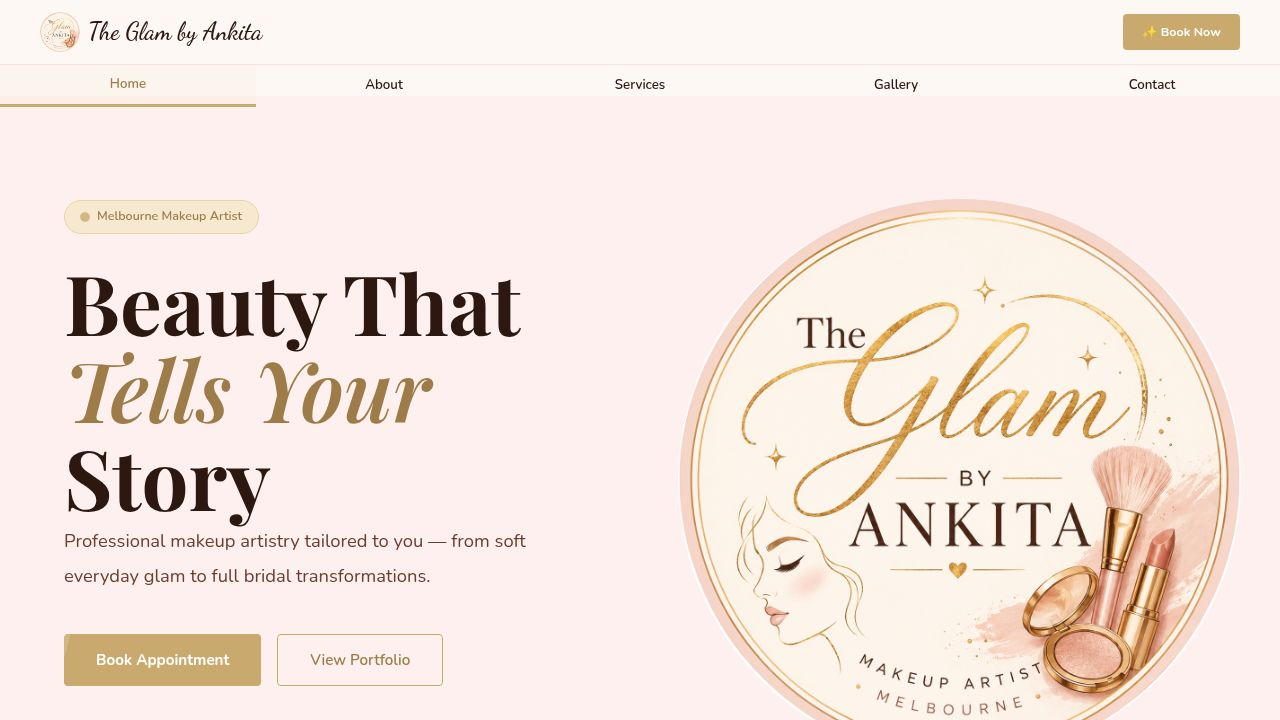
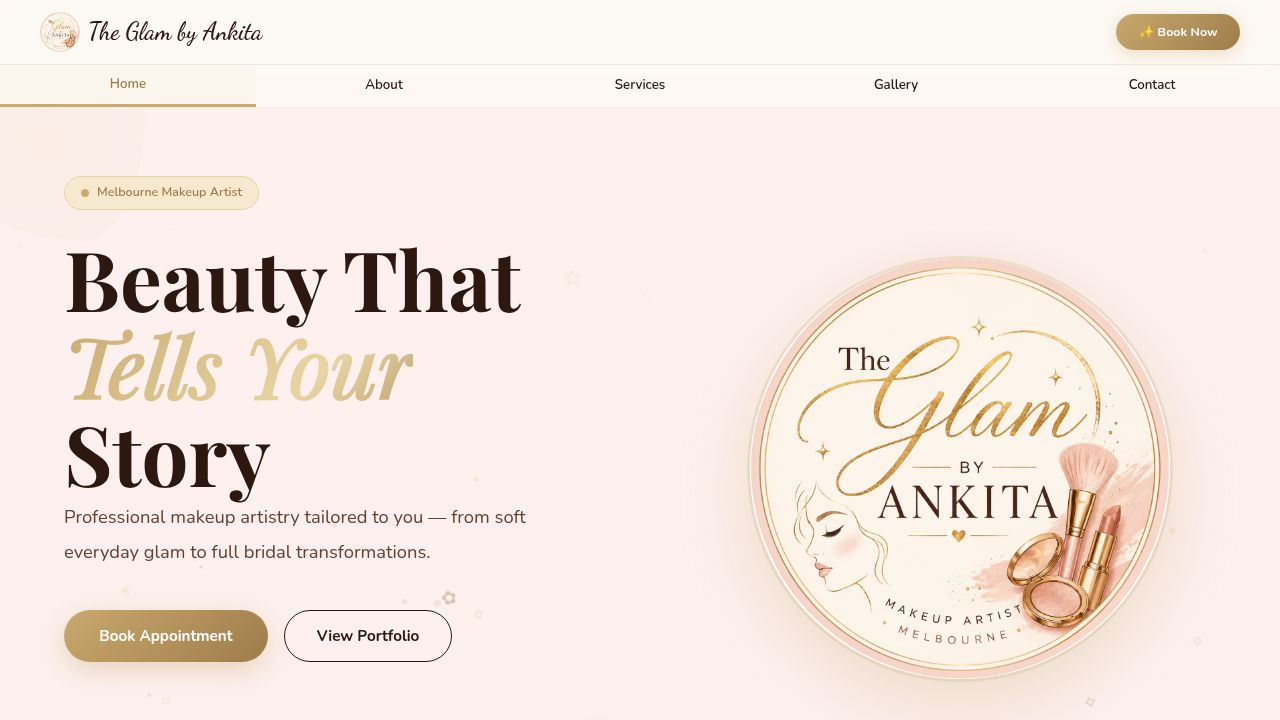
Add functionality to apply discount codes to bookings
Integrates coupon validation and application into the API server, front-end booking page, and payment processing.

Replit-Commit-Author: Agent
Replit-Commit-Session-Id: 282024a3-923a-431c-b2bb-da98415b7cdc
Replit-Commit-Checkpoint-Type: full_checkpoint
Replit-Commit-Event-Id: 32ee8916-b80d-4cc3-8edd-429b4a8d8781
Replit-Commit-Screenshot-Url: https://storage.googleapis.com/screenshot-production-us-central1/66a73c00-f45a-4c36-a1ad-ee1a0a4c6257/282024a3-923a-431c-b2bb-da98415b7cdc/SQH9PIQ

diff --git a/artifacts/glam-by-ankita/index.html b/artifacts/glam-by-ankita/index.html
@@ -1632,6 +1632,28 @@
         <p style="margin:0;font-size:0.77rem;color:#9e7c4a;">Secures your appointment · Non-refundable</p>
       </div>
 
+      <!-- Promo code input -->
+      <div id="sp-promo-wrap" class="sp-fade-up" style="margin-bottom:16px;text-align:center;">
+        <button type="button" onclick="_togglePromo()" style="background:none;border:none;cursor:pointer;font-size:0.82rem;color:#9e7c4a;font-family:'Nunito',sans-serif;font-weight:600;padding:4px 8px;display:inline-flex;align-items:center;gap:5px;">
+          <span id="sp-promo-chevron" style="font-size:0.65rem;display:inline-block;transition:transform 0.25s;">▶</span>
+          Have a promo code?
+        </button>
+        <div id="sp-promo-input-wrap" style="display:none;margin-top:6px;text-align:left;">
+          <div style="display:flex;gap:8px;">
+            <input id="sp-promo-input" type="text" placeholder="Enter code"
+              style="flex:1;padding:10px 14px;border:1.5px solid #e8c4bc;border-radius:7px;font-size:0.9rem;font-family:'Nunito',sans-serif;color:#2c1810;background:#fff;outline:none;text-transform:uppercase;letter-spacing:0.05em;box-sizing:border-box;"
+              oninput="this.value=this.value.toUpperCase()"
+              onkeydown="if(event.key==='Enter'){event.preventDefault();applyPromoCode();}"
+            />
+            <button type="button" onclick="applyPromoCode()" id="sp-promo-btn"
+              style="padding:10px 18px;background:linear-gradient(135deg,#c9a96e,#9e7c4a);color:#fff;border:none;border-radius:7px;font-size:0.85rem;font-weight:700;cursor:pointer;font-family:'Nunito',sans-serif;white-space:nowrap;">
+              Apply
+            </button>
+          </div>
+          <div id="sp-promo-result" style="margin-top:8px;font-size:0.83rem;min-height:18px;"></div>
+        </div>
+      </div>
+
       <!-- ① Payment method choice screen -->
       <div id="pay-method-screen" class="sp-screen-enter">
         <p style="text-align:center;font-family:'Playfair Display',serif;font-size:0.97rem;color:#6b3d2e;margin-bottom:14px;">How would you like to pay?</p>
@@ -2340,7 +2362,10 @@
 
       renderBookingDetails(data);
       const depositEl = document.getElementById('deposit-display');
-      if (depositEl) depositEl.textContent = 'AUD $' + parseFloat(data.total_aud).toFixed(2);
+      if (depositEl) {
+        depositEl.textContent = 'AUD $' + parseFloat(data.total_aud).toFixed(2);
+        depositEl.dataset.originalAmount = parseFloat(data.total_aud).toFixed(2);
+      }
       // Show discount breakdown if coupon was applied
       const existingBreakdown = document.getElementById('deposit-discount-breakdown');
       if (existingBreakdown) existingBreakdown.remove();
@@ -2412,6 +2437,68 @@
 
   let _stripeInitStarted = false;
 
+  function _togglePromo() {
+    const wrap = document.getElementById('sp-promo-input-wrap');
+    const chevron = document.getElementById('sp-promo-chevron');
+    if (!wrap) return;
+    const open = wrap.style.display !== 'none';
+    wrap.style.display = open ? 'none' : 'block';
+    if (chevron) chevron.style.transform = open ? '' : 'rotate(90deg)';
+  }
+
+  async function applyPromoCode() {
+    const input = document.getElementById('sp-promo-input');
+    const result = document.getElementById('sp-promo-result');
+    const btn = document.getElementById('sp-promo-btn');
+    const code = (input ? input.value : '').trim().toUpperCase();
+    if (!code) { if (result) result.innerHTML = '<span style="color:#c0392b;">Please enter a code.</span>'; return; }
+    if (btn) { btn.disabled = true; btn.textContent = 'Checking…'; }
+    if (result) result.innerHTML = '';
+    try {
+      const r = await fetch('/api/validate-coupon?code=' + encodeURIComponent(code));
+      const data = await r.json();
+      if (!data.valid) {
+        if (result) result.innerHTML = '<span style="color:#c0392b;">❌ ' + (data.error || 'Invalid code') + '</span>';
+        if (btn) { btn.disabled = false; btn.textContent = 'Apply'; }
+        return;
+      }
+      const depositEl = document.getElementById('deposit-display');
+      const originalAud = parseFloat(depositEl ? (depositEl.dataset.originalAmount || '0') : '0') || 0;
+      let discountAmount = data.discountType === 'percent'
+        ? originalAud * data.discountValue / 100
+        : Math.min(data.discountValue, originalAud);
+      const newAmount = Math.max(0, originalAud - discountAmount);
+      _appliedCoupon = { code: data.code, discountType: data.discountType, discountValue: data.discountValue, discountAmount, newAmount, originalAud };
+      if (depositEl) {
+        depositEl.innerHTML = '<span style="text-decoration:line-through;color:#aaa;font-size:1.5rem;">AUD $' + originalAud.toFixed(2) + '</span><br>'
+          + '<span style="color:#2c6e3f;font-size:2.2rem;">AUD $' + newAmount.toFixed(2) + '</span>';
+      }
+      const discLabel = data.discountType === 'percent' ? data.discountValue + '% off' : 'A$' + data.discountValue + ' off';
+      if (result) result.innerHTML = '<span style="color:#2c6e3f;">✅ ' + discLabel + ' applied!'
+        + (data.description ? ' · <em>' + data.description + '</em>' : '') + '</span>'
+        + ' <button type="button" onclick="removePromoCode()" style="background:none;border:none;color:#c0392b;font-size:0.8rem;cursor:pointer;text-decoration:underline;font-family:\'Nunito\',sans-serif;padding:0 4px;">Remove</button>';
+      if (btn) { btn.textContent = '✓ Applied'; btn.style.background = '#2c6e3f'; }
+      if (input) input.disabled = true;
+    } catch (e) {
+      if (result) result.innerHTML = '<span style="color:#c0392b;">Could not check code. Please try again.</span>';
+      if (btn) { btn.disabled = false; btn.textContent = 'Apply'; }
+    }
+  }
+
+  function removePromoCode() {
+    _appliedCoupon = null;
+    const depositEl = document.getElementById('deposit-display');
+    if (depositEl && depositEl.dataset.originalAmount) {
+      depositEl.textContent = 'AUD $' + parseFloat(depositEl.dataset.originalAmount).toFixed(2);
+    }
+    const input = document.getElementById('sp-promo-input');
+    const result = document.getElementById('sp-promo-result');
+    const btn = document.getElementById('sp-promo-btn');
+    if (input) { input.value = ''; input.disabled = false; }
+    if (result) result.innerHTML = '';
+    if (btn) { btn.disabled = false; btn.textContent = 'Apply'; btn.style.background = ''; }
+  }
+
   async function initStripe(pubKey, token) {
     try {
       const Stripe = window.Stripe;
@@ -2420,7 +2507,7 @@
       const res = await fetch('/api/create-payment-intent', {
         method: 'POST',
         headers: { 'Content-Type': 'application/json' },
-        body: JSON.stringify({ token, testMode: _testMode })
+        body: JSON.stringify({ token, testMode: _testMode, couponCode: _appliedCoupon ? _appliedCoupon.code : null })
       });
       const json = await res.json();
       if (json.error || !json.client_secret) {
@@ -2461,7 +2548,8 @@
         let body = { token: _bookingToken };
         try {
           const d = _decodeBookingToken(_bookingToken);
-          body = { client_name: d.client_name, client_email: d.client_email, total_aud: d.total_aud, confirmed_data: d.confirmed_data };
+          const actualAud = _appliedCoupon ? _appliedCoupon.newAmount : parseFloat(d.total_aud);
+          body = { client_name: d.client_name, client_email: d.client_email, total_aud: actualAud, confirmed_data: d.confirmed_data };
         } catch (_) {}
         await fetch('/api/select-cash', { method: 'POST', headers: { 'Content-Type': 'application/json' }, body: JSON.stringify(body) });
       } catch (e) { /* best effort */ }
@@ -2470,7 +2558,9 @@
     try {
       const d = _decodeBookingToken(_bookingToken);
       const note = document.getElementById('cash-deposit-note');
-      if (note && d.total_aud) note.textContent = 'Cash deposit of A$' + parseFloat(d.total_aud).toFixed(2) + ' to be paid at appointment.';
+      const cashAud = _appliedCoupon ? _appliedCoupon.newAmount : parseFloat(d.total_aud);
+      if (note && cashAud) note.textContent = 'Cash deposit of A$' + cashAud.toFixed(2) + ' to be paid at appointment.'
+        + (_appliedCoupon ? ' (Promo code ' + _appliedCoupon.code + ' applied)' : '');
     } catch (_) {}
     document.getElementById('pay-method-screen').style.display = 'none';
     document.getElementById('payment-success-cash').style.display = 'block';
@@ -2500,7 +2590,7 @@
       err.style.animation = 'none'; void err.offsetWidth;
       err.style.animation = '';
     } else {
-      try { await fetch('/api/confirm-payment', { method: 'POST', headers: { 'Content-Type': 'application/json' }, body: JSON.stringify({ token: _bookingToken, payment_intent_id: paymentIntent?.id || null, testMode: _testMode }) }); } catch {}
+      try { await fetch('/api/confirm-payment', { method: 'POST', headers: { 'Content-Type': 'application/json' }, body: JSON.stringify({ token: _bookingToken, payment_intent_id: paymentIntent?.id || null, testMode: _testMode, couponCode: _appliedCoupon ? _appliedCoupon.code : null }) }); } catch {}
       document.getElementById('pay-card-screen').style.display = 'none';
       _showSuccessCard({});
     }

diff --git a/artifacts/glam-by-ankita/src/pages/payment.tsx b/artifacts/glam-by-ankita/src/pages/payment.tsx
@@ -146,7 +146,34 @@ export default function PaymentPage() {
   const [paying, setPaying] = useState(false);
   const [cashLoading, setCashLoading] = useState(false);
   const [isTestMode, setIsTestMode] = useState(false);
+  const [showCoupon, setShowCoupon] = useState(false);
+  const [couponInput, setCouponInput] = useState("");
+  const [couponLoading, setCouponLoading] = useState(false);
+  const [couponError, setCouponError] = useState("");
+  const [appliedCoupon, setAppliedCoupon] = useState<{ code: string; discountType: string; discountValue: number; discountAmount: number; newAmount: number; originalAud: number } | null>(null);
   const stripeLoaded = useRef(false);
+
+  async function handleApplyCoupon() {
+    const code = couponInput.trim().toUpperCase();
+    if (!code) { setCouponError("Please enter a code."); return; }
+    setCouponLoading(true); setCouponError("");
+    try {
+      const r = await fetch(`${BASE}/api/validate-coupon?code=${encodeURIComponent(code)}`);
+      const data = await r.json();
+      if (!data.valid) { setCouponError(data.error || "Invalid code."); setCouponLoading(false); return; }
+      const originalAud = booking?.totalAud ?? 0;
+      const discountAmount = data.discountType === "percent"
+        ? originalAud * data.discountValue / 100
+        : Math.min(data.discountValue, originalAud);
+      const newAmount = Math.max(0, originalAud - discountAmount);
+      setAppliedCoupon({ code: data.code, discountType: data.discountType, discountValue: data.discountValue, discountAmount, newAmount, originalAud });
+    } catch { setCouponError("Could not check code. Please try again."); }
+    setCouponLoading(false);
+  }
+
+  function handleRemoveCoupon() {
+    setAppliedCoupon(null); setCouponInput(""); setCouponError("");
+  }
 
   useEffect(() => {
     try {
@@ -176,7 +203,7 @@ export default function PaymentPage() {
       if (!cfg.stripePublishableKey) throw new Error(isTestMode ? "Test Stripe keys not configured. Please add STRIPE_TEST_SECRET_KEY and STRIPE_TEST_PUBLISHABLE_KEY as Replit secrets." : "Stripe not configured.");
       const stripe = await loadStripe(cfg.stripePublishableKey);
       if (!stripe) throw new Error("Failed to load Stripe.");
-      const piRes = await fetch(`${BASE}/api/create-payment-intent`, { method: "POST", headers: { "Content-Type": "application/json" }, body: JSON.stringify({ token: rawToken, testMode: isTestMode }) });
+      const piRes = await fetch(`${BASE}/api/create-payment-intent`, { method: "POST", headers: { "Content-Type": "application/json" }, body: JSON.stringify({ token: rawToken, testMode: isTestMode, couponCode: appliedCoupon?.code || null }) });
       const piJson = await piRes.json();
       if (!piRes.ok) throw new Error(piJson.error || "Could not create payment.");
       const els = stripe.elements({
@@ -195,7 +222,7 @@ export default function PaymentPage() {
     const { error } = await stripeObj.confirmPayment({ elements, confirmParams: { return_url: window.location.href, receipt_email: booking.clientEmail || undefined }, redirect: "if_required" });
     if (error) { setPayError(error.message || "Payment failed. Please try again."); setPaying(false); setScreen("card-ready"); }
     else {
-      try { await fetch(`${BASE}/api/confirm-payment`, { method: "POST", headers: { "Content-Type": "application/json" }, body: JSON.stringify({ token: rawToken, testMode: isTestMode }) }); } catch {}
+      try { await fetch(`${BASE}/api/confirm-payment`, { method: "POST", headers: { "Content-Type": "application/json" }, body: JSON.stringify({ token: rawToken, testMode: isTestMode, couponCode: appliedCoupon?.code || null }) }); } catch {}
       setPaying(false); setScreen("success-card");
     }
   }
@@ -204,7 +231,8 @@ export default function PaymentPage() {
     if (!booking) return;
     if (isTestMode) { setScreen("success-cash"); return; }
     setCashLoading(true);
-    try { await fetch(`${BASE}/api/select-cash`, { method: "POST", headers: { "Content-Type": "application/json" }, body: JSON.stringify({ token: rawToken }) }); } catch {}
+    const cashAud = appliedCoupon ? appliedCoupon.newAmount : booking.totalAud;
+    try { await fetch(`${BASE}/api/select-cash`, { method: "POST", headers: { "Content-Type": "application/json" }, body: JSON.stringify({ token: rawToken, total_aud: cashAud }) }); } catch {}
     setCashLoading(false); setScreen("success-cash");
   }
 
@@ -355,14 +383,55 @@ export default function PaymentPage() {
               )}
 
               <motion.div initial={{ opacity: 0, scale: 0.95 }} animate={{ opacity: 1, scale: 1 }} transition={{ delay: 0.25, type: "spring", stiffness: 200 }}
-                style={{ background: "linear-gradient(135deg,#fff9f0,#fdf5e8)", border: "2px solid #c9a96e", borderRadius: 10, padding: "20px 24px", marginBottom: 24, textAlign: "center", animation: "pulse-glow 3s ease-in-out infinite" }}>
+                style={{ background: "linear-gradient(135deg,#fff9f0,#fdf5e8)", border: "2px solid #c9a96e", borderRadius: 10, padding: "20px 24px", marginBottom: 16, textAlign: "center", animation: "pulse-glow 3s ease-in-out infinite" }}>
                 <div style={{ fontSize: "0.82rem", color: "#9e7c4a", fontWeight: 600, textTransform: "uppercase", letterSpacing: "0.06em" }}>Deposit Due</div>
                 <motion.div animate={{ scale: [1, 1.03, 1] }} transition={{ repeat: Infinity, duration: 2.5, ease: "easeInOut" }}
-                  style={{ fontFamily: "Georgia,serif", fontSize: "2rem", color: "#6b3d2e", margin: "6px 0 2px" }}>
-                  A${booking.totalAud.toFixed(2)}
+                  style={{ fontFamily: "Georgia,serif", fontSize: "2rem", color: appliedCoupon ? "#2c6e3f" : "#6b3d2e", margin: "6px 0 2px" }}>
+                  {appliedCoupon ? (
+                    <>
+                      <span style={{ textDecoration: "line-through", color: "#aaa", fontSize: "1.4rem", marginRight: 8 }}>A${booking.totalAud.toFixed(2)}</span>
+                      A${appliedCoupon.newAmount.toFixed(2)}
+                    </>
+                  ) : `A$${booking.totalAud.toFixed(2)}`}
                 </motion.div>
+                {appliedCoupon && (
+                  <div style={{ fontSize: "0.8rem", color: "#2c6e3f", fontWeight: 600, marginBottom: 2 }}>
+                    🏷️ Promo <strong>{appliedCoupon.code}</strong> — {appliedCoupon.discountType === "percent" ? `${appliedCoupon.discountValue}% off` : `A$${appliedCoupon.discountValue} off`}
+                    <button type="button" onClick={handleRemoveCoupon} style={{ marginLeft: 8, background: "none", border: "none", color: "#c0392b", fontSize: "0.78rem", cursor: "pointer", textDecoration: "underline", padding: 0 }}>Remove</button>
+                  </div>
+                )}
                 <div style={{ fontSize: "0.82rem", color: "#9e7c4a" }}>Secures your appointment · Non-refundable</div>
               </motion.div>
+
+              {/* Promo code toggle */}
+              {!appliedCoupon && (
+                <div style={{ marginBottom: 16, textAlign: "center" }}>
+                  <button type="button" onClick={() => setShowCoupon(v => !v)}
+                    style={{ background: "none", border: "none", cursor: "pointer", fontSize: "0.82rem", color: "#9e7c4a", fontWeight: 600, fontFamily: "inherit", display: "inline-flex", alignItems: "center", gap: 5, padding: "4px 8px" }}>
+                    <span style={{ fontSize: "0.65rem", display: "inline-block", transition: "transform 0.25s", transform: showCoupon ? "rotate(90deg)" : "none" }}>▶</span>
+                    Have a promo code?
+                  </button>
+                  {showCoupon && (
+                    <div style={{ marginTop: 8, textAlign: "left" }}>
+                      <div style={{ display: "flex", gap: 8 }}>
+                        <input
+                          type="text"
+                          placeholder="Enter code"
+                          value={couponInput}
+                          onChange={e => setCouponInput(e.target.value.toUpperCase())}
+                          onKeyDown={e => { if (e.key === "Enter") { e.preventDefault(); handleApplyCoupon(); } }}
+                          style={{ flex: 1, padding: "10px 14px", border: "1.5px solid #e8c4bc", borderRadius: 7, fontSize: "0.9rem", fontFamily: "inherit", color: "#2c1810", background: "#fff", outline: "none", textTransform: "uppercase", letterSpacing: "0.05em", boxSizing: "border-box" }}
+                        />
+                        <button type="button" onClick={handleApplyCoupon} disabled={couponLoading}
+                          style={{ padding: "10px 18px", background: "linear-gradient(135deg,#c9a96e,#9e7c4a)", color: "#fff", border: "none", borderRadius: 7, fontSize: "0.85rem", fontWeight: 700, cursor: "pointer", fontFamily: "inherit", whiteSpace: "nowrap", opacity: couponLoading ? 0.7 : 1 }}>
+                          {couponLoading ? "Checking…" : "Apply"}
+                        </button>
+                      </div>
+                      {couponError && <div style={{ marginTop: 6, fontSize: "0.83rem", color: "#c0392b" }}>❌ {couponError}</div>}
+                    </div>
+                  )}
+                </div>
+              )}
             </motion.div>
           )}
         </AnimatePresence>

diff --git a/artifacts/api-server/src/routes/stripe.ts b/artifacts/api-server/src/routes/stripe.ts
@@ -2,7 +2,8 @@ import { Router } from "express";
 import Stripe from "stripe";
 import nodemailer from "nodemailer";
 import { buildIcs } from "../lib/ics.js";
-import { db, bookings } from "@workspace/db";
+import { db, bookings, coupons } from "@workspace/db";
+import { eq } from "drizzle-orm";
 
 const router = Router();
 
@@ -46,7 +47,7 @@ router.post("/create-payment-intent", async (req, res) => {
     return;
   }
 
-  const { token } = req.body as { token?: string; testMode?: boolean };
+  const { token, couponCode } = req.body as { token?: string; testMode?: boolean; couponCode?: string };
   if (!token) {
     res.status(400).json({ error: "Missing token." });
     return;
@@ -66,10 +67,33 @@ router.post("/create-payment-intent", async (req, res) => {
     return;
   }
 
-  const amountCents = Math.round(totalAud * 100);
+  // Apply coupon discount server-side if code provided
+  let finalAud = totalAud;
+  let appliedCouponCode: string | null = null;
+  if (couponCode && !testMode) {
+    try {
+      const codeUpper = couponCode.trim().toUpperCase();
+      const rows = await db.select().from(coupons).where(eq(coupons.code, codeUpper)).limit(1);
+      if (rows.length) {
+        const c = rows[0];
+        const isValid = c.active === "true"
+          && (!c.expiresAt || new Date() <= c.expiresAt)
+          && (!c.maxUses || Number(c.usesCount) < Number(c.maxUses));
+        if (isValid) {
+          const dv = Number(c.discountValue);
+          finalAud = c.discountType === "percent"
+            ? totalAud * (1 - dv / 100)
+            : Math.max(0, totalAud - dv);
+          appliedCouponCode = c.code;
+        }
+      }
+    } catch (e) { console.error("Coupon validation error:", e); }
+  }
+
+  const amountCents = Math.round(finalAud * 100);
   if (amountCents < 50) {
     res.status(400).json({
-      error: `The minimum card payment is A$0.50. This booking has a deposit of A$${totalAud.toFixed(2)} — please contact Ankita to arrange payment directly.`,
+      error: `The minimum card payment is A$0.50. This booking has a deposit of A$${finalAud.toFixed(2)} — please contact Ankita to arrange payment directly.`,
     });
     return;
   }
@@ -81,7 +105,7 @@ router.post("/create-payment-intent", async (req, res) => {
   const stripe = new Stripe(secretKey);
   try {
     const paymentIntent = await stripe.paymentIntents.create({
-      amount: Math.round(totalAud * 100),
+      amount: amountCents,
       currency: "aud",
       automatic_payment_methods: { enabled: true },
       receipt_email: clientEmail || undefined,
@@ -94,9 +118,11 @@ router.post("/create-payment-intent", async (req, res) => {
         booking_location: cd["Location"]         || "",
         booking_people:   cd["Number of People"] || "",
         booking_token:    token.length <= 450 ? token : "",
+        coupon_code:      appliedCouponCode || "",
+        original_aud:     appliedCouponCode ? String(totalAud) : "",
       },
     });
-    res.json({ client_secret: paymentIntent.client_secret });
+    res.json({ client_secret: paymentIntent.client_secret, couponApplied: !!appliedCouponCode, finalAud });
   } catch (err) {
     console.error("Stripe PaymentIntent error:", err);
     res.status(500).json({ error: "Could not create payment." });
@@ -104,7 +130,7 @@ router.post("/create-payment-intent", async (req, res) => {
 });
 
 router.post("/confirm-payment", async (req, res) => {
-  const { token, payment_intent_id, testMode } = req.body as { token?: string; payment_intent_id?: string; testMode?: boolean };
+  const { token, payment_intent_id, testMode, couponCode } = req.body as { token?: string; payment_intent_id?: string; testMode?: boolean; couponCode?: string };
 
   res.json({ ok: true, testMode: !!testMode });
 
@@ -124,6 +150,18 @@ router.post("/confirm-payment", async (req, res) => {
   if (testMode) {
     console.log(`[TEST MODE] Payment confirmed for ${clientName} (${clientEmail}) A$${totalAud} — no DB insert, no emails sent.`);
     return;
+  }
+
+  // Increment coupon usesCount if a coupon was applied
+  if (couponCode) {
+    try {
+      const codeUpper = couponCode.trim().toUpperCase();
+      const rows = await db.select().from(coupons).where(eq(coupons.code, codeUpper)).limit(1);
+      if (rows.length) {
+        const current = Number(rows[0].usesCount) || 0;
+        await db.update(coupons).set({ usesCount: String(current + 1) }).where(eq(coupons.code, codeUpper));
+      }
+    } catch (e) { console.error("Coupon usesCount increment error:", e); }
   }
 
   // Save to DB